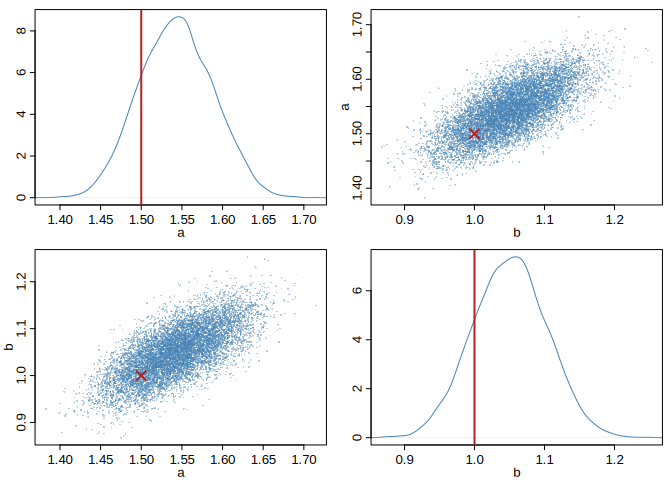
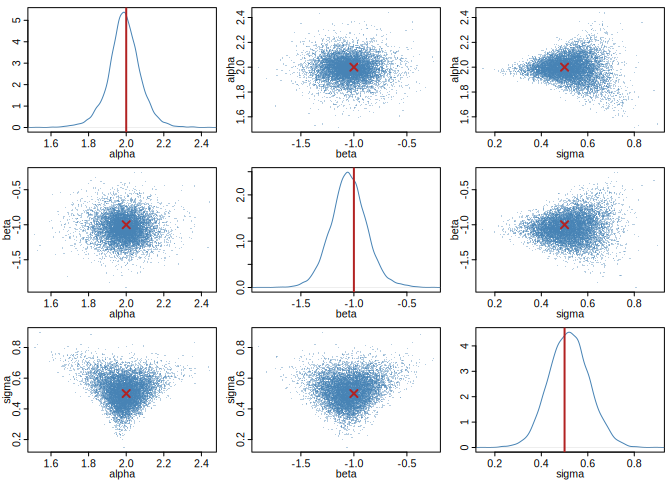
Recast README example as linear regression with a covariate
Replace the exponential-decay example with ordinary linear regression, using
the notation of the canonical Stan tutorial model: y ~ Normal(alpha + beta * x,
sigma), with an intercept, a slope on a single covariate x, and a noise scale.
The simulator draws the response vector y and nothing else — the observation
the posterior conditions on is y, so no fitting happens inside the simulator.

Fifty design points and 5000 training simulations identify all three
coefficients cleanly; posterior mean and MAP both land on the true
(2, -1, 0.5). Keeps the default neural (MAF) estimator and seed = 1 for
reproducible output.

diff --git a/README.md b/README.md
@@ -28,56 +28,62 @@ torch::install_torch()
 
 ## Usage
 
-Simulation-based inference recovers parameters from a model you can
-simulate but whose likelihood you would rather not write down. To make
-that concrete, take a noisy exponential decay measured at ten time
-points — a cooling object, a clearing drug — with an amplitude `a` and a
-decay rate `b` to recover. We know the parameters that generated the
-data, so we can check that the posterior lands on them.
+Simulation-based inference fits a posterior from a prior and a
+simulator, with no likelihood required. To keep the setup familiar, here
+is ordinary linear regression written as a simulator: a response `y`
+scattered around a line, `y ~ Normal(alpha + beta * x, sigma)` — the
+same model you might write in Stan. Its likelihood is easy to write
+down, which is exactly what makes it a good check: we know the
+coefficients that generated the data, so we can confirm the posterior
+recovers them.
 
 ``` r
 library(neuralsbi)
 set.seed(1)
 
-# Simulator: given (a, b), measure the decay curve a * exp(-b * t) at ten times,
-# with observation noise. It only generates data — no fitting happens here.
-times     <- seq(0, 2, length.out = 10)
+# Regression design: a single covariate x, measured at 50 fixed points.
+N <- 50
+x <- seq(-1, 1, length.out = N)
+
+# Simulator: given (alpha, beta, sigma), draw one response vector y from
+# y ~ Normal(alpha + beta * x, sigma). It only generates data — no fitting here.
 simulator <- function(theta) {
-  t(apply(theta, 1, function(p) p[1] * exp(-p[2] * times) + rnorm(length(times), sd = 0.05)))
+  t(apply(theta, 1, function(p) rnorm(N, mean = p[1] + p[2] * x, sd = p[3])))
 }
 
-# Prior over the amplitude and decay rate, then train the neural posterior.
-prior <- prior_uniform(low = c(0, 0), high = c(3, 3))
-fit   <- npe(prior, simulator, n_simulations = 3000, seed = 1)
+# Priors over the intercept, slope, and noise scale, then train the posterior.
+prior <- prior_uniform(low = c(-3, -3, 0.1), high = c(3, 3, 2))
+fit   <- npe(prior, simulator, n_simulations = 5000, seed = 1)
 
-# Measure one curve from known parameters, then infer them back.
-theta_true <- c(a = 1.5, b = 1.0)
-x_obs      <- simulator(rbind(theta_true))
-post       <- posterior(fit, x_obs = x_obs)
+# Simulate one data set from known coefficients, then infer them back. The
+# observation the posterior conditions on is the response vector y.
+theta_true <- c(alpha = 2, beta = -1, sigma = 0.5)
+y_obs      <- simulator(rbind(theta_true))
+post       <- posterior(fit, x_obs = y_obs)
 draws      <- sample(post, 10000)
 ```
 
-The posterior mean recovers the parameters that generated the curve:
+The posterior mean recovers the coefficients that generated the data:
 
 ``` r
 rbind(truth = theta_true, posterior_mean = colMeans(draws))
-#>                       a        b
-#> truth          1.500000 1.000000
-#> posterior_mean 1.543212 1.050659
+#>                   alpha      beta     sigma
+#> truth          2.000000 -1.000000 0.5000000
+#> posterior_mean 1.989139 -1.047011 0.5194744
 ```
 
 ``` r
-pairplot(draws, truth = theta_true, labels = c("a", "b"))
+pairplot(draws, truth = theta_true, labels = c("alpha", "beta", "sigma"))
 ```
 
-<img src="man/figures/README-pairplot-1.png" alt="Pairwise posterior over the decay amplitude and rate." width="100%" />
+<img src="man/figures/README-pairplot-1.png" alt="Pairwise posterior over the regression intercept, slope, and noise scale." width="100%" />
 
 The same posterior gives a point estimate; calibration checks such as
 simulation-based calibration live in `vignette("diagnostics")`.
 
 ``` r
 map_estimate(post)     # posterior mode
-#> [1] 1.539072 1.048587
+#> [1]  1.9931949 -1.0567096  0.4637602
 ```
 
 If you’re interested in sbi in other languages or functionality not